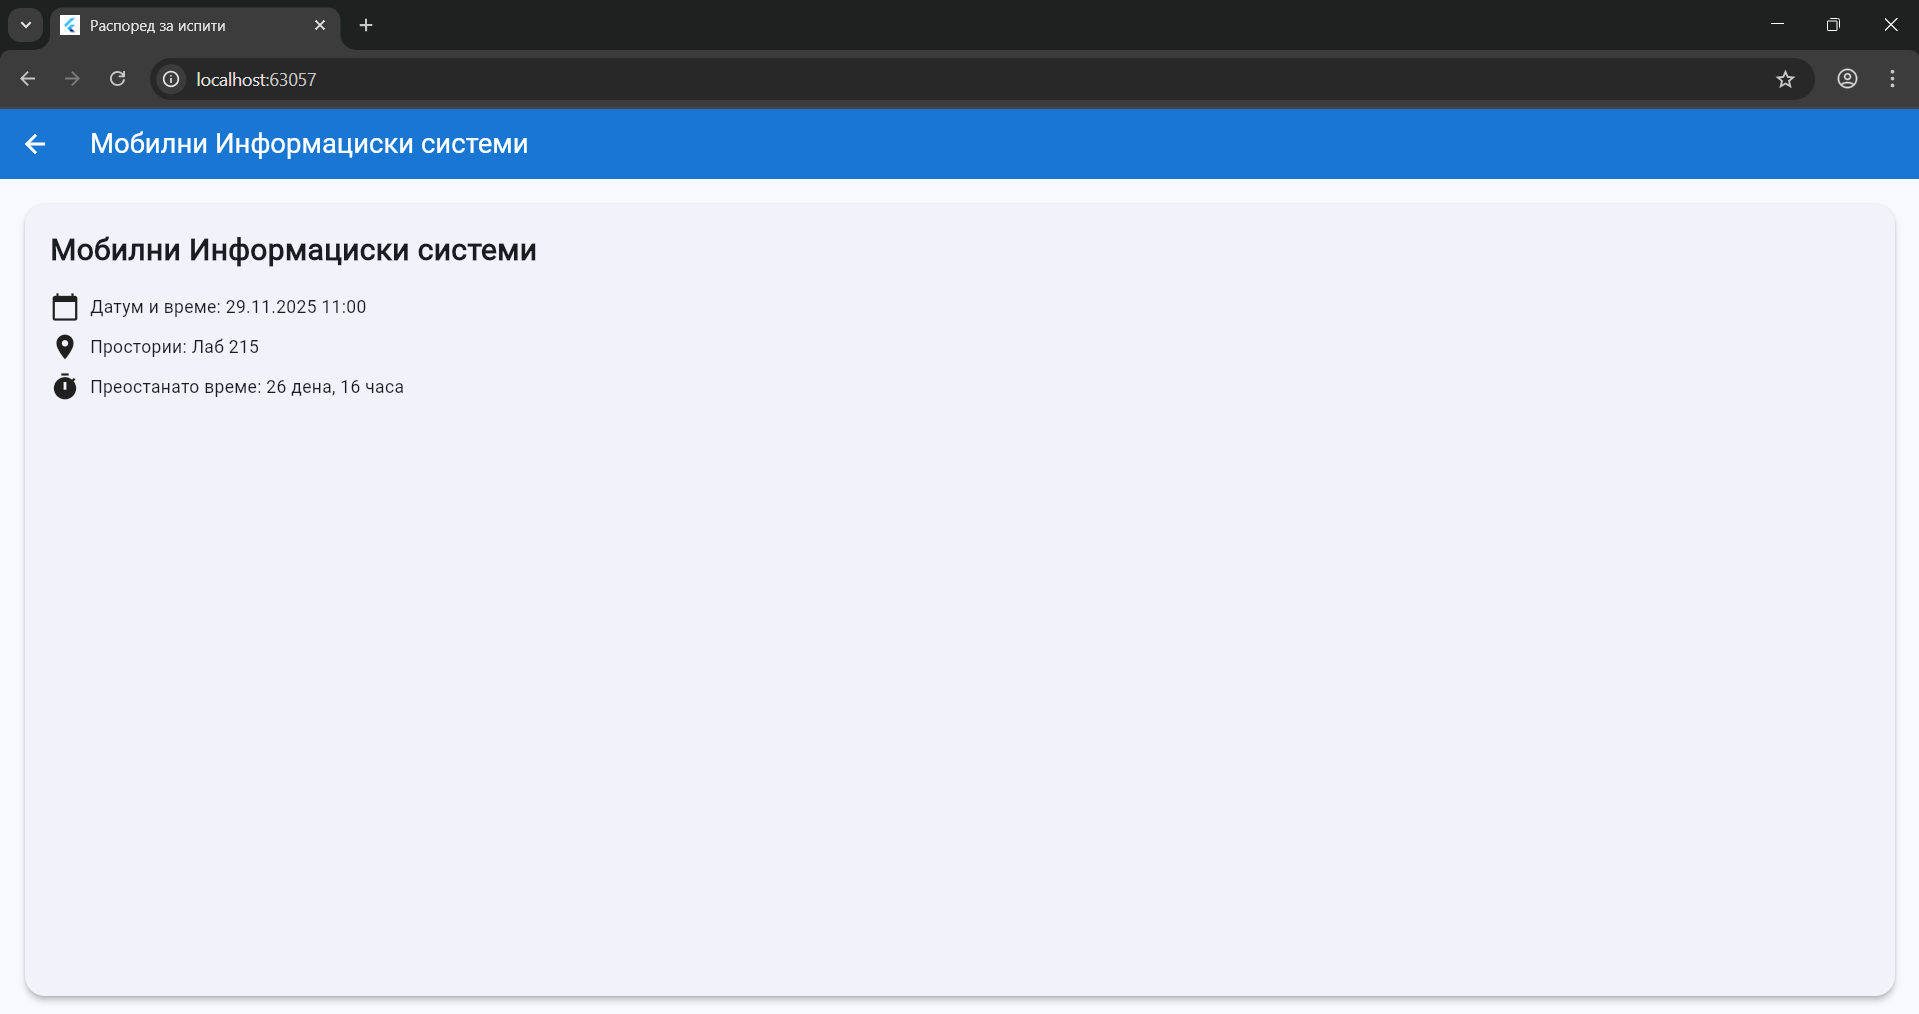
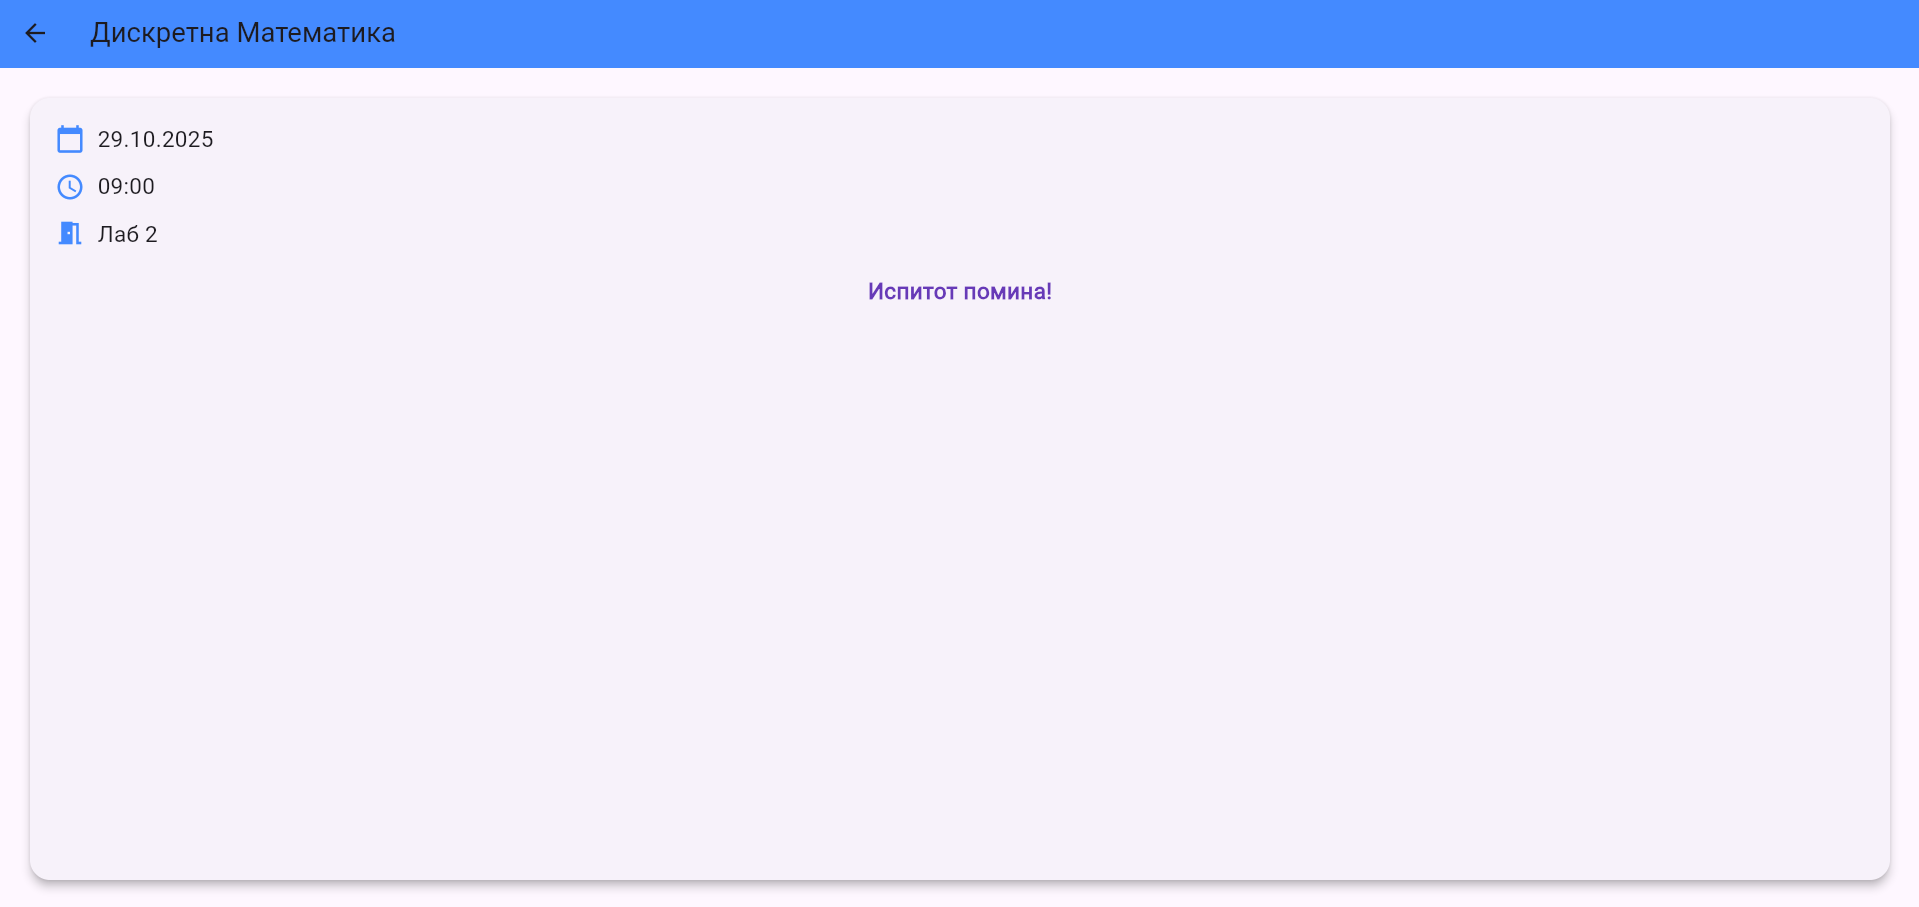
Updated app design, code improvements, and added new screenshots

Changed region(s): [[0.0, 0.0, 1.0, 0.4013], [0.0, 0.957, 0.9838, 0.9879], [0.4304, 0.3087, 0.5534, 0.3396]]

diff --git a/lib/screens/exam_list_screen.dart b/lib/screens/exam_list_screen.dart
@@ -1,5 +1,6 @@
 import 'package:flutter/material.dart';
 import 'package:intl/intl.dart';
+import '../models/exam.dart';
 import '../data/exam_data.dart';
 import 'exam_detail_screen.dart';
 
@@ -11,56 +12,120 @@ class ExamListScreen extends StatelessWidget {
     exams.sort((a, b) => a.dateTime.compareTo(b.dateTime));
 
     return Scaffold(
+      backgroundColor: const Color(0xFFF3F4F6),
       appBar: AppBar(
-        title: const Text("Распоред за испити - 225119"),
-        backgroundColor: Colors.blue.shade700,
-        foregroundColor: Colors.white,
+        title: const Text(
+          'Распоред за испити - 225119',
+          style: TextStyle(fontWeight: FontWeight.bold),
+        ),
+        centerTitle: true,
+        backgroundColor: Colors.blueAccent,
+        elevation: 4,
+        actions: const [
+          Padding(
+            padding: EdgeInsets.only(right: 16.0),
+            child: Icon(Icons.school_rounded, color: Colors.white),
+          ),
+        ],
       ),
-      body: ListView.builder(
-        itemCount: exams.length,
-        itemBuilder: (context, index) {
-          final exam = exams[index];
-          final dateFormat = DateFormat('dd.MM.yyyy HH:mm');
+      body: Column(
+        children: [
+          Expanded(
+            child: ListView.builder(
+              padding: const EdgeInsets.all(10),
+              itemCount: exams.length,
+              itemBuilder: (context, index) {
+                final exam = exams[index];
+                final isPast = exam.dateTime.isBefore(DateTime.now());
+                final cardColor = exam.passed
+                    ? Colors.green.shade100
+                    : isPast
+                        ? Colors.grey.shade200
+                        : Colors.blue.shade100;
 
-          return Card(
-            margin: const EdgeInsets.symmetric(horizontal: 12, vertical: 6),
-            color: exam.passed ? Colors.green.shade100 : Colors.orange.shade100,
-            elevation: 3,
-            child: ListTile(
-              leading: Icon(Icons.book,
-                  color: exam.passed ? Colors.green : Colors.orange, size: 36),
-              title: Text(
-                exam.subjectName,
-                style: const TextStyle(fontWeight: FontWeight.bold, fontSize: 18),
-              ),
-              subtitle: Row(
-                children: [
-                  const Icon(Icons.calendar_today, size: 16),
-                  const SizedBox(width: 4),
-                  Text(dateFormat.format(exam.dateTime)),
-                ],
-              ),
-              onTap: () {
-                Navigator.push(
-                  context,
-                  MaterialPageRoute(
-                    builder: (context) => ExamDetailScreen(exam: exam),
+                return GestureDetector(
+                  onTap: () {
+                    Navigator.push(
+                      context,
+                      MaterialPageRoute(
+                        builder: (context) => ExamDetailScreen(exam: exam),
+                      ),
+                    );
+                  },
+                  child: Card(
+                    elevation: 4,
+                    color: cardColor,
+                    shape: RoundedRectangleBorder(
+                      borderRadius: BorderRadius.circular(16),
+                    ),
+                    margin: const EdgeInsets.symmetric(vertical: 8),
+                    child: Padding(
+                      padding: const EdgeInsets.all(16.0),
+                      child: Column(
+                        crossAxisAlignment: CrossAxisAlignment.start,
+                        children: [
+                          Text(
+                            exam.subjectName,
+                            style: const TextStyle(
+                              fontSize: 18,
+                              fontWeight: FontWeight.bold,
+                            ),
+                          ),
+                          const SizedBox(height: 8),
+                          Row(
+                            children: [
+                              const Icon(Icons.calendar_today, size: 18, color: Colors.black54),
+                              const SizedBox(width: 6),
+                              Text(DateFormat('dd.MM.yyyy').format(exam.dateTime)),
+                              const SizedBox(width: 16),
+                              const Icon(Icons.access_time, size: 18, color: Colors.black54),
+                              const SizedBox(width: 6),
+                              Text(DateFormat('HH:mm').format(exam.dateTime)),
+                            ],
+                          ),
+                          const SizedBox(height: 8),
+                          Row(
+                            crossAxisAlignment: CrossAxisAlignment.start,
+                            children: [
+                              const Icon(Icons.meeting_room, size: 18, color: Colors.black54),
+                              const SizedBox(width: 6),
+                              Expanded(
+                                child: Text(exam.rooms.join(', ')),
+                              ),
+                            ],
+                          ),
+                        ],
+                      ),
+                    ),
                   ),
                 );
               },
             ),
-          );
-        },
-      ),
-      bottomNavigationBar: Container(
-        padding: const EdgeInsets.all(16),
-        color: Colors.blue.shade700,
-        child: Text(
-          "Вкупно испити: ${exams.length}",
-          textAlign: TextAlign.center,
-          style: const TextStyle(
-              color: Colors.white, fontSize: 18, fontWeight: FontWeight.bold),
-        ),
+          ),
+          Container(
+            margin: const EdgeInsets.only(bottom: 16),
+            padding: const EdgeInsets.symmetric(horizontal: 20, vertical: 10),
+            decoration: BoxDecoration(
+              color: Colors.blueAccent,
+              borderRadius: BorderRadius.circular(30),
+              boxShadow: [
+                BoxShadow(
+                  color: Colors.blueAccent.withOpacity(0.4),
+                  blurRadius: 8,
+                  offset: const Offset(0, 3),
+                ),
+              ],
+            ),
+            child: Text(
+              "Вкупно испити: ${exams.length}",
+              style: const TextStyle(
+                color: Colors.white,
+                fontWeight: FontWeight.bold,
+                fontSize: 16,
+              ),
+            ),
+          ),
+        ],
       ),
     );
   }

diff --git a/lib/screens/exam_detail_screen.dart b/lib/screens/exam_detail_screen.dart
@@ -4,67 +4,78 @@ import '../models/exam.dart';
 
 class ExamDetailScreen extends StatelessWidget {
   final Exam exam;
-
   const ExamDetailScreen({super.key, required this.exam});
 
-  String getTimeRemaining() {
+  String _getTimeRemaining() {
     final now = DateTime.now();
-    final diff = exam.dateTime.difference(now);
+    final difference = exam.dateTime.difference(now);
 
-    if (diff.isNegative) return "Испитот помина";
+    if (difference.isNegative) return "Испитот помина!";
 
-    final days = diff.inDays;
-    final hours = diff.inHours % 24;
-    return "$days дена, $hours часа";
+    final days = difference.inDays;
+    final hours = difference.inHours % 24;
+
+    return "Преостануваат $days дена и $hours часа";
   }
 
   @override
   Widget build(BuildContext context) {
-    final dateFormat = DateFormat('dd.MM.yyyy HH:mm');
+    final timeRemaining = _getTimeRemaining();
 
     return Scaffold(
       appBar: AppBar(
         title: Text(exam.subjectName),
-        backgroundColor: Colors.blue.shade700,
-        foregroundColor: Colors.white,
+        backgroundColor: Colors.blueAccent,
       ),
       body: Padding(
-        padding: const EdgeInsets.all(16.0),
+        padding: const EdgeInsets.all(20),
         child: Card(
+          elevation: 6,
           shape: RoundedRectangleBorder(borderRadius: BorderRadius.circular(16)),
-          elevation: 4,
           child: Padding(
             padding: const EdgeInsets.all(20),
             child: Column(
               crossAxisAlignment: CrossAxisAlignment.start,
               children: [
-                Text(
-                  exam.subjectName,
-                  style: const TextStyle(fontSize: 24, fontWeight: FontWeight.bold),
-                ),
-                const SizedBox(height: 16),
                 Row(
                   children: [
-                    const Icon(Icons.calendar_today),
-                    const SizedBox(width: 8),
-                    Text("Датум и време: ${dateFormat.format(exam.dateTime)}"),
+                    const Icon(Icons.calendar_today, color: Colors.blueAccent),
+                    const SizedBox(width: 10),
+                    Text(DateFormat('dd.MM.yyyy').format(exam.dateTime),
+                        style: const TextStyle(fontSize: 18)),
                   ],
                 ),
-                const SizedBox(height: 8),
+                const SizedBox(height: 12),
                 Row(
                   children: [
-                    const Icon(Icons.location_on),
-                    const SizedBox(width: 8),
-                    Text("Простории: ${exam.rooms.join(', ')}"),
+                    const Icon(Icons.access_time, color: Colors.blueAccent),
+                    const SizedBox(width: 10),
+                    Text(DateFormat('HH:mm').format(exam.dateTime),
+                        style: const TextStyle(fontSize: 18)),
                   ],
                 ),
-                const SizedBox(height: 8),
+                const SizedBox(height: 12),
                 Row(
+                  crossAxisAlignment: CrossAxisAlignment.start,
                   children: [
-                    const Icon(Icons.timer),
-                    const SizedBox(width: 8),
-                    Text("Преостанато време: ${getTimeRemaining()}"),
+                    const Icon(Icons.meeting_room, color: Colors.blueAccent),
+                    const SizedBox(width: 10),
+                    Expanded(
+                      child: Text(exam.rooms.join(', '),
+                          style: const TextStyle(fontSize: 18)),
+                    ),
                   ],
+                ),
+                const SizedBox(height: 20),
+                Center(
+                  child: Text(
+                    timeRemaining,
+                    style: const TextStyle(
+                      fontSize: 18,
+                      fontWeight: FontWeight.bold,
+                      color: Colors.deepPurple,
+                    ),
+                  ),
                 ),
               ],
             ),

diff --git a/lib/data/exam_data.dart b/lib/data/exam_data.dart
@@ -12,3 +12,4 @@ final List<Exam> exams = [
   Exam(subjectName: "Мобилни Информациски системи", dateTime: DateTime(2025, 11, 29, 11, 0), rooms: ["Лаб 215"]),
   Exam(subjectName: "Веб програмирање", dateTime: DateTime(2025, 11, 30, 10, 0), rooms: ["Лаб 12"]),
 ];
+

diff --git a/lib/models/exam.dart b/lib/models/exam.dart
@@ -4,7 +4,7 @@ class Exam {
   final List<String> rooms;
   final bool passed;
 
-  const Exam({
+  Exam({
     required this.subjectName,
     required this.dateTime,
     required this.rooms,
